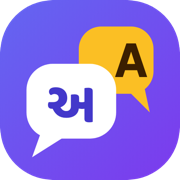
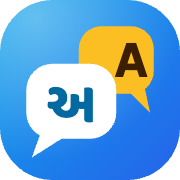
Switch the site colour from purple to sky blue and blue
Replace the indigo/purple design tokens with sky blue (#0277c0) and blue
in light and dark mode, redraw the logo, icons and share image in blue,
and make the sticky header and lesson step bar more solid so text no
longer shows through on phones.

diff --git a/src/styles.css b/src/styles.css
@@ -6,22 +6,22 @@
 :root {
   color-scheme: light;
 
-  --bg: #f6f7fb;
+  --bg: #f4f8fc;
   --surface: #ffffff;
-  --surface-2: #f1f3f9;
-  --surface-3: #e4e7f2;
-  --text: #151833;
-  --text-2: #4b5173;
-  --text-3: #646a8c;
-  --line: #e3e6f0;
-  --line-strong: #cdd2e4;
+  --surface-2: #eef4fa;
+  --surface-3: #e0eaf4;
+  --text: #0f1d33;
+  --text-2: #45566e;
+  --text-3: #5d6d84;
+  --line: #e0e8f1;
+  --line-strong: #c8d5e4;
 
-  --primary: #4f46e5;
-  --primary-hover: #4338ca;
-  --primary-soft: #eef0ff;
-  --primary-ink: #4338ca;
+  --primary: #0277c0;
+  --primary-hover: #0369a1;
+  --primary-soft: #e0f2fe;
+  --primary-ink: #0369a1;
   --on-primary: #ffffff;
-  --ring: #6366f1;
+  --ring: #0ea5e9;
 
   --good: #16a34a;
   --good-ink: #15803d;
@@ -33,21 +33,21 @@
   --warn-ink: #b45309;
   --warn-soft: #fef3e2;
 
-  /* One colour per part: green sprout, indigo path, saffron mountain. */
+  /* One colour per part: green sprout, sky-blue path, saffron mountain. */
   --p1: #059669;
   --p1-ink: #047857;
   --p1-soft: #e3f6ee;
-  --p2: #4f46e5;
-  --p2-ink: #4338ca;
-  --p2-soft: #eef0ff;
+  --p2: #0277c0;
+  --p2-ink: #0369a1;
+  --p2-soft: #e0f2fe;
   --p3: #d97706;
   --p3-ink: #b45309;
   --p3-soft: #fef3e2;
 
   /* Sentence parts (who, verb, what …): one colour each, used in pattern pictures and labelled boxes. */
-  --role-who: var(--primary);
-  --role-who-soft: var(--primary-soft);
-  --role-who-ink: var(--primary-ink);
+  --role-who: #2563eb;
+  --role-who-soft: #e3ecfd;
+  --role-who-ink: #1d4ed8;
   --role-verb: var(--warn);
   --role-verb-soft: var(--warn-soft);
   --role-verb-ink: var(--warn-ink);
@@ -66,19 +66,19 @@
   --role-helper: #64748b;
   --role-helper-soft: #eef1f5;
   --role-helper-ink: #475569;
-  --role-link: #7c3aed;
-  --role-link-soft: #f1eafe;
-  --role-link-ink: #6d28d9;
+  --role-link: #ea580c;
+  --role-link-soft: #ffedd5;
+  --role-link-ink: #c2410c;
 
-  --hero-a: #4f46e5;
-  --hero-b: #7c3aed;
-  --glow-1: rgb(99 102 241 / 0.12);
+  --hero-a: #0284c7;
+  --hero-b: #2563eb;
+  --glow-1: rgb(14 165 233 / 0.13);
   --glow-2: rgb(251 191 36 / 0.12);
-  --header-bg: rgb(255 255 255 / 0.82);
+  --header-bg: rgb(255 255 255 / 0.92);
 
-  --shadow-sm: 0 1px 2px rgb(21 24 51 / 0.05), 0 1px 3px rgb(21 24 51 / 0.06);
-  --shadow-md: 0 8px 22px -8px rgb(21 24 51 / 0.14), 0 2px 6px rgb(21 24 51 / 0.05);
-  --shadow-lg: 0 20px 44px -14px rgb(79 70 229 / 0.3), 0 4px 12px rgb(21 24 51 / 0.06);
+  --shadow-sm: 0 1px 2px rgb(15 29 51 / 0.05), 0 1px 3px rgb(15 29 51 / 0.06);
+  --shadow-md: 0 8px 22px -8px rgb(15 29 51 / 0.14), 0 2px 6px rgb(15 29 51 / 0.05);
+  --shadow-lg: 0 20px 44px -14px rgb(2 119 192 / 0.28), 0 4px 12px rgb(15 29 51 / 0.06);
 
   --font-body: "Plus Jakarta Sans Variable", "Noto Sans Gujarati", system-ui, sans-serif;
   --font-head: "Baloo Bhai 2", "Noto Sans Gujarati", system-ui, sans-serif;
@@ -104,22 +104,22 @@
 :root[data-theme="dark"] {
   color-scheme: dark;
 
-  --bg: #0d1020;
-  --surface: #151931;
-  --surface-2: #1c2140;
-  --surface-3: #2a3058;
-  --text: #eceefb;
-  --text-2: #b0b5d6;
-  --text-3: #8f95ba;
-  --line: #252b4d;
-  --line-strong: #353d69;
+  --bg: #0a1220;
+  --surface: #111c2e;
+  --surface-2: #17253b;
+  --surface-3: #22354f;
+  --text: #e9f1fb;
+  --text-2: #adbdd1;
+  --text-3: #8a9cb4;
+  --line: #1e2d44;
+  --line-strong: #2d415d;
 
-  --primary: #818cf8;
-  --primary-hover: #a5b4fc;
-  --primary-soft: #24295a;
-  --primary-ink: #a5b4fc;
-  --on-primary: #0d1020;
-  --ring: #a5b4fc;
+  --primary: #38bdf8;
+  --primary-hover: #7dd3fc;
+  --primary-soft: #0c2d48;
+  --primary-ink: #7dd3fc;
+  --on-primary: #04121f;
+  --ring: #7dd3fc;
 
   --good: #4ade80;
   --good-ink: #86efac;
@@ -134,13 +134,16 @@
   --p1: #34d399;
   --p1-ink: #6ee7b7;
   --p1-soft: #0e2f27;
-  --p2: #818cf8;
-  --p2-ink: #a5b4fc;
-  --p2-soft: #24295a;
+  --p2: #38bdf8;
+  --p2-ink: #7dd3fc;
+  --p2-soft: #0c2d48;
   --p3: #fbbf24;
   --p3-ink: #fcd34d;
   --p3-soft: #362a0c;
 
+  --role-who: #60a5fa;
+  --role-who-soft: #13284d;
+  --role-who-ink: #93c5fd;
   --role-how: #a3e635;
   --role-how-soft: #1f2e0a;
   --role-how-ink: #bef264;
@@ -153,15 +156,15 @@
   --role-helper: #94a3b8;
   --role-helper-soft: #222a3d;
   --role-helper-ink: #cbd5e1;
-  --role-link: #a78bfa;
-  --role-link-soft: #2a1f4d;
-  --role-link-ink: #c4b5fd;
+  --role-link: #fb923c;
+  --role-link-soft: #3a1e0c;
+  --role-link-ink: #fdba74;
 
-  --hero-a: #3730a3;
-  --hero-b: #6d28d9;
-  --glow-1: rgb(129 140 248 / 0.14);
+  --hero-a: #075985;
+  --hero-b: #1e40af;
+  --glow-1: rgb(56 189 248 / 0.12);
   --glow-2: rgb(251 191 36 / 0.06);
-  --header-bg: rgb(21 25 49 / 0.8);
+  --header-bg: rgb(17 28 46 / 0.92);
 
   --shadow-sm: 0 1px 2px rgb(0 0 0 / 0.35);
   --shadow-md: 0 10px 26px -10px rgb(0 0 0 / 0.6), 0 2px 6px rgb(0 0 0 / 0.3);
@@ -314,7 +317,7 @@ svg {
 
 .brand-mark {
   border-radius: 12px;
-  box-shadow: 0 6px 14px -6px rgb(79 70 229 / 0.6);
+  box-shadow: 0 6px 14px -6px rgb(2 119 192 / 0.55);
   transition: transform 0.35s var(--ease-spring);
 }
 
@@ -1555,7 +1558,7 @@ button:hover .spin-hover {
 .footer-logo svg {
   display: block;
   border-radius: 16px;
-  box-shadow: 0 10px 20px -10px rgb(79 70 229 / 0.7);
+  box-shadow: 0 10px 20px -10px rgb(2 119 192 / 0.65);
 }
 .footer-logo:hover {
   transform: rotate(-6deg) scale(1.06);
@@ -1885,7 +1888,7 @@ button:hover .spin-hover {
     position: fixed;
     inset: var(--header-h) 0 0 0;
     z-index: 20;
-    background: rgb(8 10 25 / 0.45);
+    background: rgb(5 12 24 / 0.45);
     backdrop-filter: blur(2px);
     animation: fade-in 0.25s;
   }

diff --git a/src/home.css b/src/home.css
@@ -8,15 +8,15 @@
   container-type: inline-size;
   --hx-bleed: 40px;
   --hx-top: 28px;
-  --grad-1: #4f46e5;
-  --grad-2: #7c3aed;
-  --grad-3: #db2777;
+  --grad-1: #0284c7;
+  --grad-2: #2563eb;
+  --grad-3: #0891b2;
 }
 
 :root[data-theme="dark"] .home {
-  --grad-1: #a5b4fc;
-  --grad-2: #c4b5fd;
-  --grad-3: #f9a8d4;
+  --grad-1: #7dd3fc;
+  --grad-2: #93c5fd;
+  --grad-3: #67e8f9;
 }
 
 /* ---------- Hero ---------- */
@@ -54,7 +54,7 @@
   height: 420px;
   top: -160px;
   left: -120px;
-  background: #a5b4fc;
+  background: #7dd3fc;
 }
 
 .hx-blob-2 {
@@ -62,7 +62,7 @@
   height: 360px;
   top: -60px;
   right: -120px;
-  background: #c4b5fd;
+  background: #93c5fd;
   animation-duration: 26s;
   animation-delay: -8s;
 }
@@ -1262,12 +1262,12 @@
 .hc-button,
 .hc-button:hover {
   background: #fff;
-  color: #3730a3;
+  color: #075985;
   box-shadow: 0 12px 26px -12px rgb(0 0 0 / 0.5);
 }
 
 .hc-button:hover {
-  background: #f5f3ff;
+  background: #f0f9ff;
 }
 
 /* ---------- Entrance and scroll animations ---------- */

diff --git a/src/components/Logo.tsx b/src/components/Logo.tsx
@@ -17,8 +17,8 @@ export function LogoMark({ size = 40, className }: { size?: number; className?: 
     >
       <defs>
         <linearGradient id={bg} x1="0" y1="0" x2="1" y2="1">
-          <stop offset="0" stopColor="#6366F1" />
-          <stop offset="1" stopColor="#7C3AED" />
+          <stop offset="0" stopColor="#0EA5E9" />
+          <stop offset="1" stopColor="#2563EB" />
         </linearGradient>
         <radialGradient id={shine} cx="0.2" cy="0.1" r="0.8">
           <stop offset="0" stopColor="#fff" stopOpacity="0.35" />
@@ -54,7 +54,7 @@ export function LogoMark({ size = 40, className }: { size?: number; className?: 
           fontFamily="'Baloo Bhai 2', 'Noto Sans Gujarati', sans-serif"
           fontSize="15"
           fontWeight="700"
-          fill="#4338CA"
+          fill="#0369A1"
         >
           અ
         </text>

diff --git a/index.html b/index.html
@@ -3,7 +3,7 @@
   <head>
     <meta charset="UTF-8" />
     <meta name="viewport" content="width=device-width, initial-scale=1.0" />
-    <meta name="theme-color" content="#f6f7fb" />
+    <meta name="theme-color" content="#f4f8fc" />
     <title>Gujarati to English – Learn English in Gujarati | ગુજરાતીમાં અંગ્રેજી શીખો</title>
     <link rel="icon" href="/favicon.svg" type="image/svg+xml" />
     <link rel="icon" href="/favicon-32.png" type="image/png" sizes="32x32" />

diff --git a/src/lesson.css b/src/lesson.css
@@ -52,7 +52,7 @@
   height: 300px;
   top: -120px;
   left: -120px;
-  background: #c4b5fd;
+  background: #93c5fd;
   opacity: 0.35;
   animation-duration: 30s;
   animation-delay: -10s;
@@ -232,7 +232,7 @@
   backdrop-filter: saturate(1.6) blur(14px);
   -webkit-backdrop-filter: saturate(1.6) blur(14px);
   border-bottom-color: var(--line);
-  box-shadow: 0 10px 24px -18px rgb(21 24 51 / 0.35);
+  box-shadow: 0 10px 24px -18px rgb(15 29 51 / 0.35);
 }
 
 .lx-steps ol {

diff --git a/pending.md b/pending.md
@@ -4,7 +4,7 @@ The single record of this project: what was asked, what was decided, what is don
 
 **Rule:** update this file at the end of every conversation in this folder. Add a line to the conversation log (section 9) and update the checklists.
 
-Last updated: 2026-10-31
+Last updated: 2026-11-02
 
 ---
 
@@ -148,6 +148,7 @@ Tick a topic when its real lesson is written **and** I've reviewed it.
 | 2026-10-31 | Sentence guide page `/guide` "વાક્ય બનાવવાની ચાવી", linked in the sidebar under the daily review. Content in `content/guide.json`: the basic order picture, 12 kinds of sentence (am/is/are, રોજ, અત્યારે, ગઈકાલે, કાલે, થઈ ગયું છે, ના, સવાલ, હા/ના સવાલ, શકું/જોઈએ, જો… તો…, બે વાત જોડવી), each with coloured pattern pieces, one example with Listen, the usual mistake (✗/✓), a tip and a link to its lesson, and 5 checks "બોલતાં પહેલાં ચકાસો". Chips at the top jump to a card (stacked cards rather than one at a time, so search engines and printing see everything). It is in Google (indexed, in the sitemap). New sentence part "કેવું?" (`how`, lime colour) for words like happy | Requested ("build it"); layout and content are Claude's, from the mockup |
 | 2026-10-31 | Guide page, tense-wise with practice: a "ત્રણ કાળ એક નજરમાં" chart (ભૂતકાળ / વર્તમાન / ભવિષ્ય × સાદો / ચાલુ / પૂરું થયેલું) at the top; the 5 taught tenses are green and open their card, the 4 not taught (was drinking, will be drinking, had drunk, will have drunk) are dashed "આગળ શીખીશું". Every card has "પ્રેક્ટિસ કરો (3 સવાલ)" with labelled-box questions (36 in all); a "કયો કાળ? મિક્સ પ્રેક્ટિસ" quiz (8 questions: pick the tense from the time word, plus 2 labelled-box ones). Only one practice set is open at a time. Guide practice answers do not go into the daily review (only lesson questions do) | Agreed ("start there"); details are Claude's |
 | 2026-11-02 | Mixed-tense lesson p2-t11 "ત્રણેય કાળ સાથે" (Mixing Tenses) is the last lesson of Part 2. IDs p2-t09 and p2-t10 are skipped because the roadmap keeps them for Past Continuous and "used to" | Agreed ("write it"); the ID and placement are Claude's choice |
+| 2026-11-02 | Main colour is now sky blue and blue instead of indigo/purple. Primary #0277c0 (sky blue, dark mode #38bdf8), hero and buttons go sky blue → blue (#0284c7 → #2563eb), neutrals are a cool blue-grey, dark mode is deep navy. Part 2 is sky blue too. Green (done), saffron/amber and the yellow "A" bubble stay. Sentence parts: કોણ? is a deeper blue (#2563eb) so it stays different from cyan ક્યાં?, and જોડતો શબ્દ (link) is orange instead of violet. Logo, favicon, app icons and the share image (og-image.png) were redrawn in the same blue. The sticky header and lesson step bar are 92% solid (was 82%) so text no longer shows through on phones without the blur effect | Requested: "I don't need this purple colour, use sky blue and blue". Exact shades are Claude's choice, checked for contrast (white on #0277c0 is 4.8:1) |
 
 ## 6. Pending / next steps
 
@@ -359,3 +360,4 @@ An earlier, much bigger version of this site was built in this folder before 202
 | 2026-11-02 | Said "yes, round 2" (step C, round 2). Claude added one colour picture and two labelled-box questions (at the end) to five more lessons: p2-t05 Negatives (""નથી" નો ક્રમ": I don't drink tea, with "નથી" moving from the end to second place; Ravi doesn't eat meat; We didn't go to the market yesterday), p2-t06 Questions ("સવાલનો ક્રમ": What do you eat?, "શું" and "What" in the same colour; Where does your brother work?; When do you wake up?), p3-t01 Present Perfect (""કર્યું છે" નો ક્રમ": She has closed the window; I have lost my key; Ravi has just come), p3-t02 Modals (""જોઈએ" નો ક્રમ": You should rest; Meena can play the sitar; We should respect our elders), p3-t09 V1–V2–V3 (""ગઈ છે" = has + V3": Meena has gone to the temple; I have written my name; They saw a new house yesterday). `npm run check` passes (231 tests, 42 pages); `npm run audio` made 11 recordings. Checked in the browser: all five lessons at 320px and 375px show their picture with no sideways scrolling; the Questions picture at 375px; went through all 17 questions of p2-t06 (17/17, both box questions accepted); no console errors; test progress cleared. **Not done:** my review; question counts are now 15–17 in these lessons (p3-t09 has 14); step (D) the mixed-tense lesson at the end of Part 2; nothing committed or pushed. |
 | 2026-11-02 | Said "write it" (step D, the mixed-tense lesson). Claude wrote `content/lessons/p2-t11.json` "ત્રણેય કાળ સાથે": 11 paragraphs (the time word decides the form; રોજ / અત્યારે / ગઈકાલે / કાલે with their forms; one verb "cook" in four forms; three common mistakes; switching tense inside a story; a "ક્રમ" paragraph; a pointer to the guide page), 26 examples, 2 colour pictures ("સમયનો શબ્દ જ ચાવી છે": Yesterday I made kheer / Tomorrow I will go to the market), 12 questions (8 choice, 2 word-order, 2 labelled-box). Added it as lesson 9 of Part 2 in `content/parts.json`. `npm run check` passes (235 tests, 43 pages); `npm run audio` made 25 recordings. Checked in the browser at 375px light (shows as ભાગ 2 · પાઠ 9 / 9, both pictures, all 12 answers accepted 12/12) and 320px dark (no sideways scrolling); no console errors; test progress cleared. **Not done:** my review of the lesson; nothing committed or pushed (all work since 2026-10-31 is still uncommitted). |
 | 2026-11-02 | Said "commit and push". Claude ran `npm run check` (235 tests, 43 pages) and committed all work since 2026-10-31 to `main` in one commit, then pushed (Vercel deploys it): speaking practice (`say` questions, no lesson uses them yet), the 320px end-of-lesson fix, lesson p3-t09 (V1–V2–V3), colour pattern pictures and labelled-box questions in 11 lessons, the sentence guide page `/guide` with tense chart and practice, lesson p2-t11 (mixed tenses), 118 new recordings, tests, README and this file. **Not done:** my review of the new lessons and the guide text; trying the microphone and the live site on her Android phone; `say` questions for the lessons; question counts above 12 in several lessons. |
+| 2026-11-02 | Asked to review all pages, improve the design where needed, and replace the purple with sky blue and blue. Claude reviewed Home, Part, Lesson, Review, Guide and the 404 page at 375px, 320px and desktop, light and dark. Changed the colour tokens in `src/styles.css` (light and dark), the home gradients and glows (`src/home.css`), one glow in `src/lesson.css`, the logo (`Logo.tsx`, `favicon.svg`), `site.webmanifest`/`index.html` theme colours, and redrew `favicon-32.png`, `apple-touch-icon.png`, `icon-192.png`, `icon-512.png` and `og-image.png` (same layout, blue). Design fix: the phone lesson step bar let the text behind it show through; it is now more solid. The lesson hint "વાદળી અંગ્રેજી શબ્દ" (blue English word) is now true, the words were purple before. Checked: `npm run check` passes (235 tests, 43 pages); no sideways scrolling on any page at 320px; no console errors; tap targets fine (only inline tappable words in sentences are smaller, as before). **Not done:** not committed; not checked on her real phone; the old Android "installed app" icon may stay purple until the phone refreshes it. |
